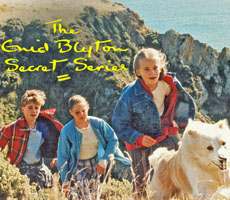
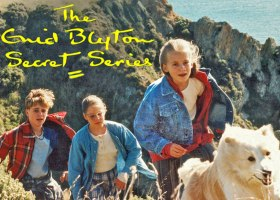
add new tour in touren2.html

diff --git a/js/randimg.js b/js/randimg.js
@@ -8,7 +8,7 @@
 // mit der Ergaenzung _l (landscape) bzw. _p (portrait) gekennzeichnet.
 
 function randimg() {
-  var images = ["3867617_l","3867619_l","3867622_l","3867626_l","3861396_l","3861403_l","3858277_l","3858284_l","3858289_l","3858291_l","3855263_l","3855264_l","3853563_l","3853567_l","3853568_l","3853569_l","3853570_l","3853572_l","3853068_l","3853071_l","3853072_l","3853074_l","3853075_l","3853076_l","3853079_l","3849728_l","3849730_l","3849592_p","3849593_l","3849596_p","3849598_l","3849602_l","3848485_l","3848488_l","3848489_l","3848490_p","3847748_l","3847749_p","3847750_l","3847755_l","3844065_l","3844078_p","3811544_l","3811546_l","3811547_l","3811549_l","3811555_l","3794694_p","3794710_l","3794722_l","3794726_l","3750542_l","3750544_l","3750545_p","3750549_l","3750550_l","3750551_l","3743179_p","3743181_l","3743182_l","3743184_l","3743187_l","3743188_l","3743189_l","3735034_p","3735035_l","3735036_l","3735041_l","3735042_l","3735043_l","3735044_l","3735045_p","3735047_l","3691231_p","3691233_p","3691235_l","3691237_p","3691238_l","3681122_p","3681123_l","3681125_l","3681127_l","3678055_l","3678058_l","3678061_l","3678063_l","3677972_p","3677977_l","3677980_l","3677981_l","3676921_l","3676922_l","3676916_p","3675990_l","3675994_l","3675997_l","3675998_l","3675999_l","3674952_l","3674955_l","3674961_l","3674963_p","3674967_l","3674969_l","3674971_l","3596132_l","3596134_l","3596135_l","3589583_l","3589585_l","3589586_l","3589589_l","3589593_p","3522184_p","3522187_p","3522183_p","3522192_l","3522193_p","3503066_l","3503069_l","3503072_l","3503074_l","3493033_p","3493038_l","3493040_l","3493044_l","3493058_l","3493060_l","3418709_l","3418711_p","3418715_l","3418716_p","3422055_p","3422058_p","3422067_l","3422065_l","3422066_p","3399952_p","3399953_p","3399969_p","3399972_l","3399925_p","3399928_p","3399929_l","3387815_p","3387820_l","3387821_l","3387825_l","3387826_p","3387828_l","3270182_l","3270187_p","3270191_l","3288694_p","3263065_l","3263067_l","3263068_p","3263069_l","3263071_l","3263072_p","3263322_l","3199103_l","3199105_l","3199107_p","3199109_p","3199110_p","3202532_l","3199114_l","3199088_l","3199092_p","3199101_p","3199102_l","3179630_l","3179723_l","3179633_l","3179726_p","3186432_l","3140866_l","3140875_l","3140877_p","3140887_l","3140893_l","3141455_l","3151331_l","3058718_l","3058720_l","3058728_l","3058717_p","3038210_l","3038212_l","3038215_l","3038217_l","3024533_l","3024535_l","3024543_p","3024545_p","3024547_l","3024549_p","3024024_l","3024027_p","3024031_l","3016821_l","3016827_l","3016829_l","3016831_l","3016833_l","2961605_l","2961610_l","2961607_p","2915130_p","2915145_p","2915147_l","2915153_l","2915155_l","2870269_l","2870275_l","2870277_l","2870279_l","2870280_l","2816611_p","2816614_l","2816620_p","2816621_p","2816623_l","2778969_l","2778970_l","2778971_l","2778973_l","2778979_l","2778980_l","2713314_l","2713309_l","2707203_l","2707201_p","2679612_l","2679616_p","2681664_l","2643469_l","2643475_l","2643476_l","2643484_l","2643482_l","651901_l","651898_l","651894_l","645081_l","645084_l","645085_l","645086_l","645095_l","645063_l","645072_l","645075_l","645015_l","645034_l","645018_p","644939_l","644948_l","644954_l","644963_l","644966_l","642225_l","642232_l","639228_l","639231_l","639236_l","639198_l","639210_l","637176_l","637182_l","283715_l","283708_l","279771_l","279779_l","279782_l","279780_l","276125_l","276128_l","275512_l","275514_l","275516_l","275524_l","204994_l","204989_p","192351_l","192358_l","192362_l","190044_l","190056_l","188975_p","188977_l"];
+  var images = ["3877747_p","3877749_l","3877751_l","3877752_l","3877760_l","3877761_l","3877762_l","3877763_p","3877764_p","3877772_p","3867617_l","3867619_l","3867622_l","3867626_l","3861396_l","3861403_l","3858277_l","3858284_l","3858289_l","3858291_l","3855263_l","3855264_l","3853563_l","3853567_l","3853568_l","3853569_l","3853570_l","3853572_l","3853068_l","3853071_l","3853072_l","3853074_l","3853075_l","3853076_l","3853079_l","3849728_l","3849730_l","3849592_p","3849593_l","3849596_p","3849598_l","3849602_l","3848485_l","3848488_l","3848489_l","3848490_p","3847748_l","3847749_p","3847750_l","3847755_l","3844065_l","3844078_p","3811544_l","3811546_l","3811547_l","3811549_l","3811555_l","3794694_p","3794710_l","3794722_l","3794726_l","3750542_l","3750544_l","3750545_p","3750549_l","3750550_l","3750551_l","3743179_p","3743181_l","3743182_l","3743184_l","3743187_l","3743188_l","3743189_l","3691231_p","3691233_p","3691235_l","3691237_p","3691238_l","3681122_p","3681123_l","3681125_l","3681127_l","3678055_l","3678058_l","3678061_l","3678063_l","3677972_p","3677977_l","3677980_l","3677981_l","3676921_l","3676922_l","3676916_p","3675990_l","3675994_l","3675997_l","3675998_l","3675999_l","3674952_l","3674955_l","3674961_l","3674963_p","3674967_l","3674969_l","3674971_l","3596132_l","3596134_l","3596135_l","3589583_l","3589585_l","3589586_l","3589589_l","3589593_p","3522184_p","3522187_p","3522183_p","3522192_l","3522193_p","3503066_l","3503069_l","3503072_l","3503074_l","3493033_p","3493038_l","3493040_l","3493044_l","3493058_l","3493060_l","3418709_l","3418711_p","3418715_l","3418716_p","3422055_p","3422058_p","3422067_l","3422065_l","3422066_p","3399952_p","3399953_p","3399969_p","3399972_l","3399925_p","3399928_p","3399929_l","3387815_p","3387820_l","3387821_l","3387825_l","3387826_p","3387828_l","3270182_l","3270187_p","3270191_l","3288694_p","3263065_l","3263067_l","3263068_p","3263069_l","3263071_l","3263072_p","3263322_l","3199103_l","3199105_l","3199107_p","3199109_p","3199110_p","3202532_l","3199114_l","3199088_l","3199092_p","3199101_p","3199102_l","3179630_l","3179723_l","3179633_l","3179726_p","3186432_l","3140866_l","3140875_l","3140877_p","3140887_l","3140893_l","3141455_l","3151331_l","3058718_l","3058720_l","3058728_l","3058717_p","3038210_l","3038212_l","3038215_l","3038217_l","3024533_l","3024535_l","3024543_p","3024545_p","3024547_l","3024549_p","3024024_l","3024027_p","3024031_l","3016821_l","3016827_l","3016829_l","3016831_l","3016833_l","2961605_l","2961610_l","2961607_p","2915130_p","2915145_p","2915147_l","2915153_l","2915155_l","2870269_l","2870275_l","2870277_l","2870279_l","2870280_l","2816611_p","2816614_l","2816620_p","2816621_p","2816623_l","2778969_l","2778970_l","2778971_l","2778973_l","2778979_l","2778980_l","2713314_l","2713309_l","2707203_l","2707201_p","2679612_l","2679616_p","2681664_l","2643469_l","2643475_l","2643476_l","2643484_l","2643482_l","651901_l","651898_l","651894_l","645081_l","645084_l","645085_l","645086_l","645095_l","645063_l","645072_l","645075_l","645015_l","645034_l","645018_p","644939_l","644948_l","644954_l","644963_l","644966_l","642225_l","642232_l","639228_l","639231_l","639236_l","639198_l","639210_l","637176_l","637182_l","283715_l","283708_l","279771_l","279779_l","279782_l","279780_l","276125_l","276128_l","275512_l","275514_l","275516_l","275524_l","204994_l","204989_p","192351_l","192358_l","192362_l","190044_l","190056_l","188975_p","188977_l"];
   
   var rand = Math.floor(Math.random()*images.length);
   var randimage = images[rand];

diff --git a/touren.html b/touren.html
@@ -74,7 +74,7 @@
 			<a tabindex="1" href="#bild25"><img alt="Hikr ABoehlen Bild" src="https://f.hikr.org/files/190044m.jpg" width="102" height="77" /></a>
 			<br />
 			<a tabindex="1" href="#bild26"><img alt="Hikr ABoehlen Bild" src="https://f.hikr.org/files/3750544m.jpg" width="102" height="77" /></a>
-			<a tabindex="1" href="#bild27"><img alt="Hikr ABoehlen Bild" src="https://f.hikr.org/files/3735035m.jpg" width="102" height="77" /></a>
+			<a tabindex="1" href="#bild27"><img alt="Hikr ABoehlen Bild" src="https://f.hikr.org/files/3877749m.jpg" width="102" height="77" /></a>
 			<a tabindex="1" href="#bild28"><img alt="Hikr ABoehlen Bild" src="https://f.hikr.org/files/3691238m.jpg" width="102" height="77" /></a>
 			<a tabindex="1" href="#bild29"><img alt="Hikr ABoehlen Bild" src="https://f.hikr.org/files/3674955m.jpg" width="102" height="77" /></a>
 			<a tabindex="1" href="#bild30"><img alt="Hikr ABoehlen Bild" src="https://f.hikr.org/files/645015m.jpg" width="102" height="77" /></a>
@@ -257,7 +257,7 @@
 				<p class="Bildlegende_gal">Die sonnseitigen Abhänge des Moseltals westlich von Müden, 21.04.1994</p>
 			</div>
 			<div id="bild27" class="details">
-				<img alt="Hikr ABoehlen Bild" src="https://f.hikr.org/files/3735035.jpg" />
+				<img alt="Hikr ABoehlen Bild" src="https://f.hikr.org/files/3877749.jpg" />
 				<a class="close" href="#null" title="schliessen"></a>
 				<a class="next" href="#bild28" title="nächstes Bild"></a>
 				<a class="prev" href="#bild26" title="vorheriges Bild"></a>

diff --git a/touren2.html b/touren2.html
@@ -227,6 +227,24 @@
 
 			<div class="Reihe">
 				<div class="Zelle_Inh_l">
+					<img width="113px" height="91px" alt="Schaermenwald" onclick="show('https://f.hikr.org/files/3861413k.jpg');" src="https://f.hikr.org/files/3861413m.jpg" />
+				</div>
+				<div class="Zelle_Inh_zw">
+				</div>
+				<div class="Zelle_Inh_r">
+					<p>2023 <img alt="Flagge Schweiz" src="https://s.hikr.org/r4flag/ch.gif" /><br />
+					<a target="_blank" href="https://www.hikr.org/tour/post184392.html">Zwischen Arztpraxis und Klinikareal: Spaziergang durch den Schärmenwald</a></p>
+				</div>
+			</div>
+
+			<div class="Reihe_zw">
+				<div class="Zelle_Inh_zw">
+				&nbsp;
+				</div>				
+			</div>
+
+			<div class="Reihe">
+				<div class="Zelle_Inh_l">
 					<img width="113px" height="76px" alt="Ruedertal" onclick="show('https://f.hikr.org/files/3858291k.jpg');" src="https://f.hikr.org/files/3858291m.jpg" />
 				</div>
 				<div class="Zelle_Inh_zw">

diff --git a/blyton.html b/blyton.html
@@ -39,7 +39,7 @@
 				<div class="Zelle_norm">
 					<a href="./secret_series/secret.html">
 					Secret Series<br />Die Verwegenen Vier
-					<img src="./secret_series/img/secret_series01_lowres.jpg" alt="Secret Series" style="width:230px;height:200px;" />
+					<img src="./secret_series/img/secret_series01_lowres.jpg" alt="Secret Series" style="width:280px;height:200px;" />
 					<script type="text/javascript">var name="ab"; var kap=""; verweis("blyIntr");</script>
 					</a>
 				</div>
